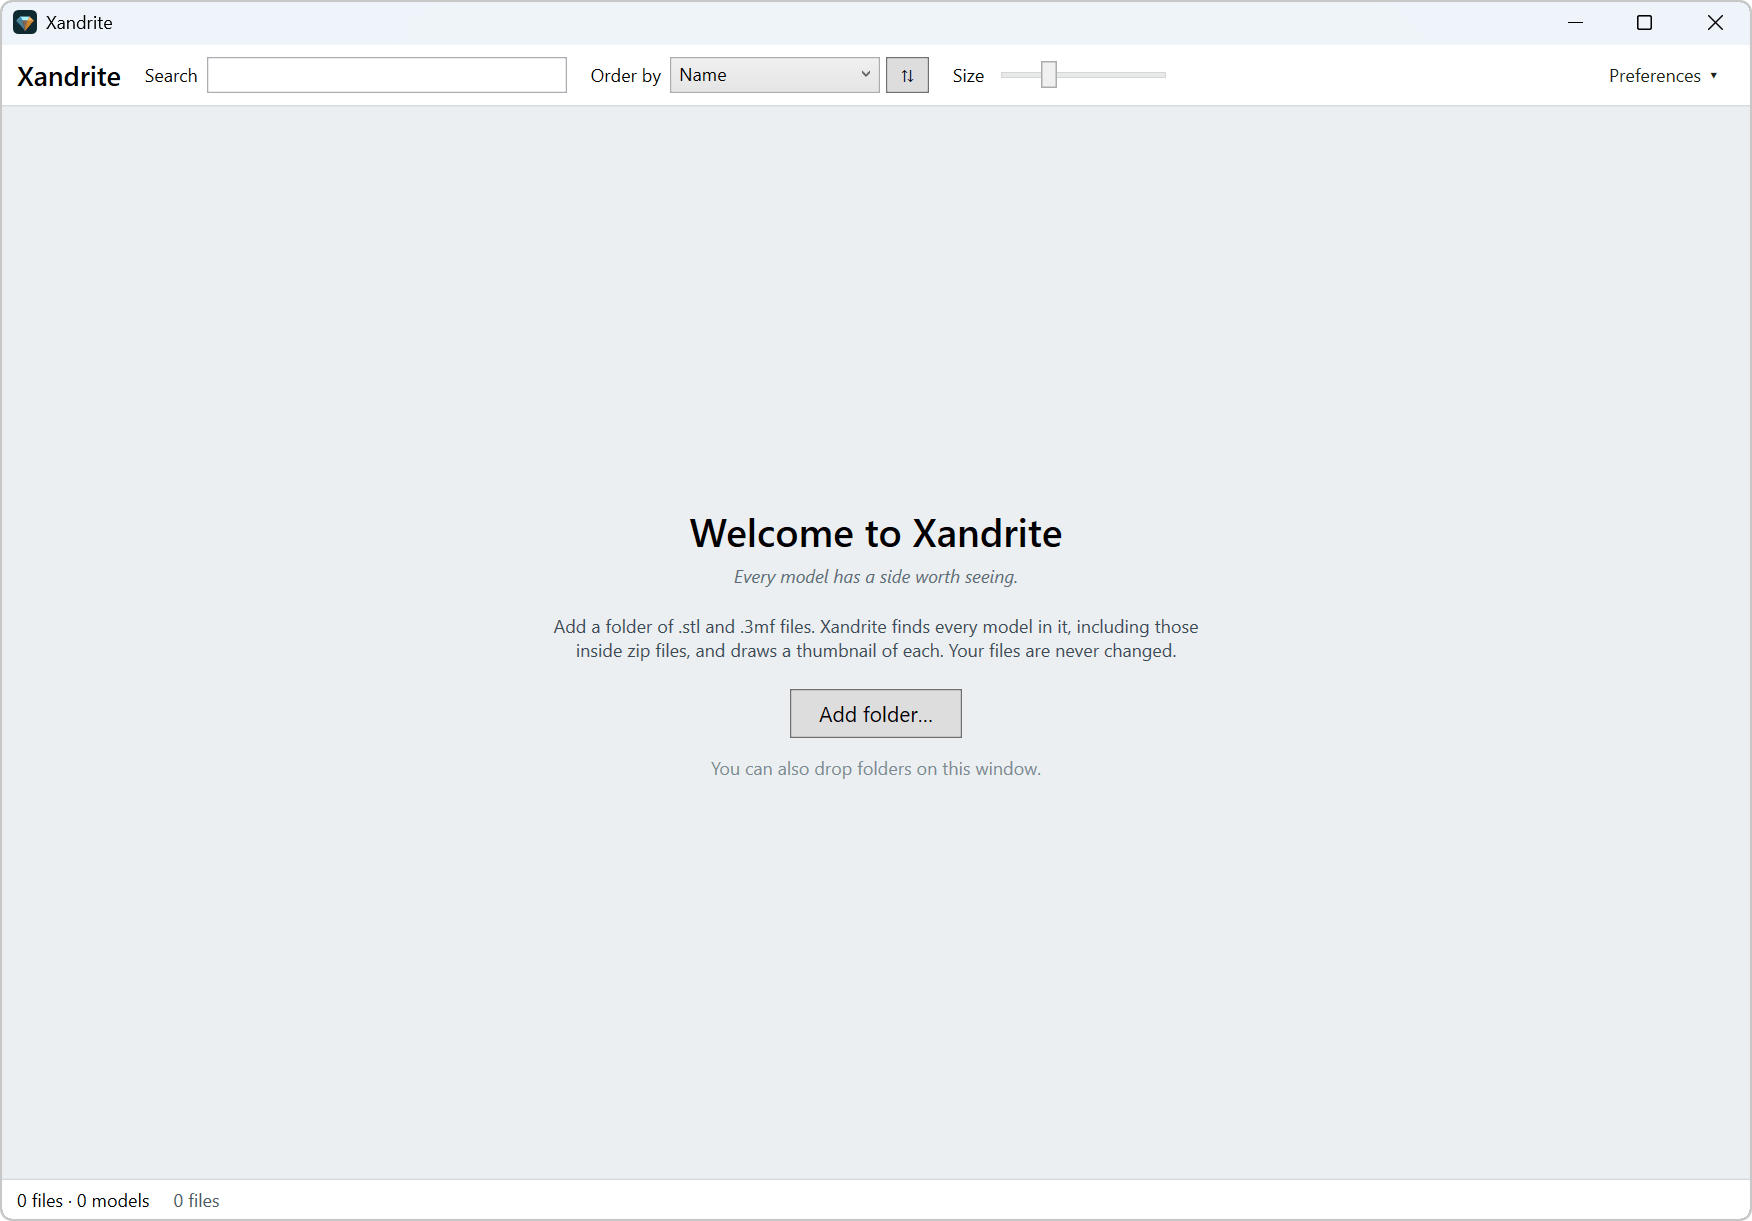
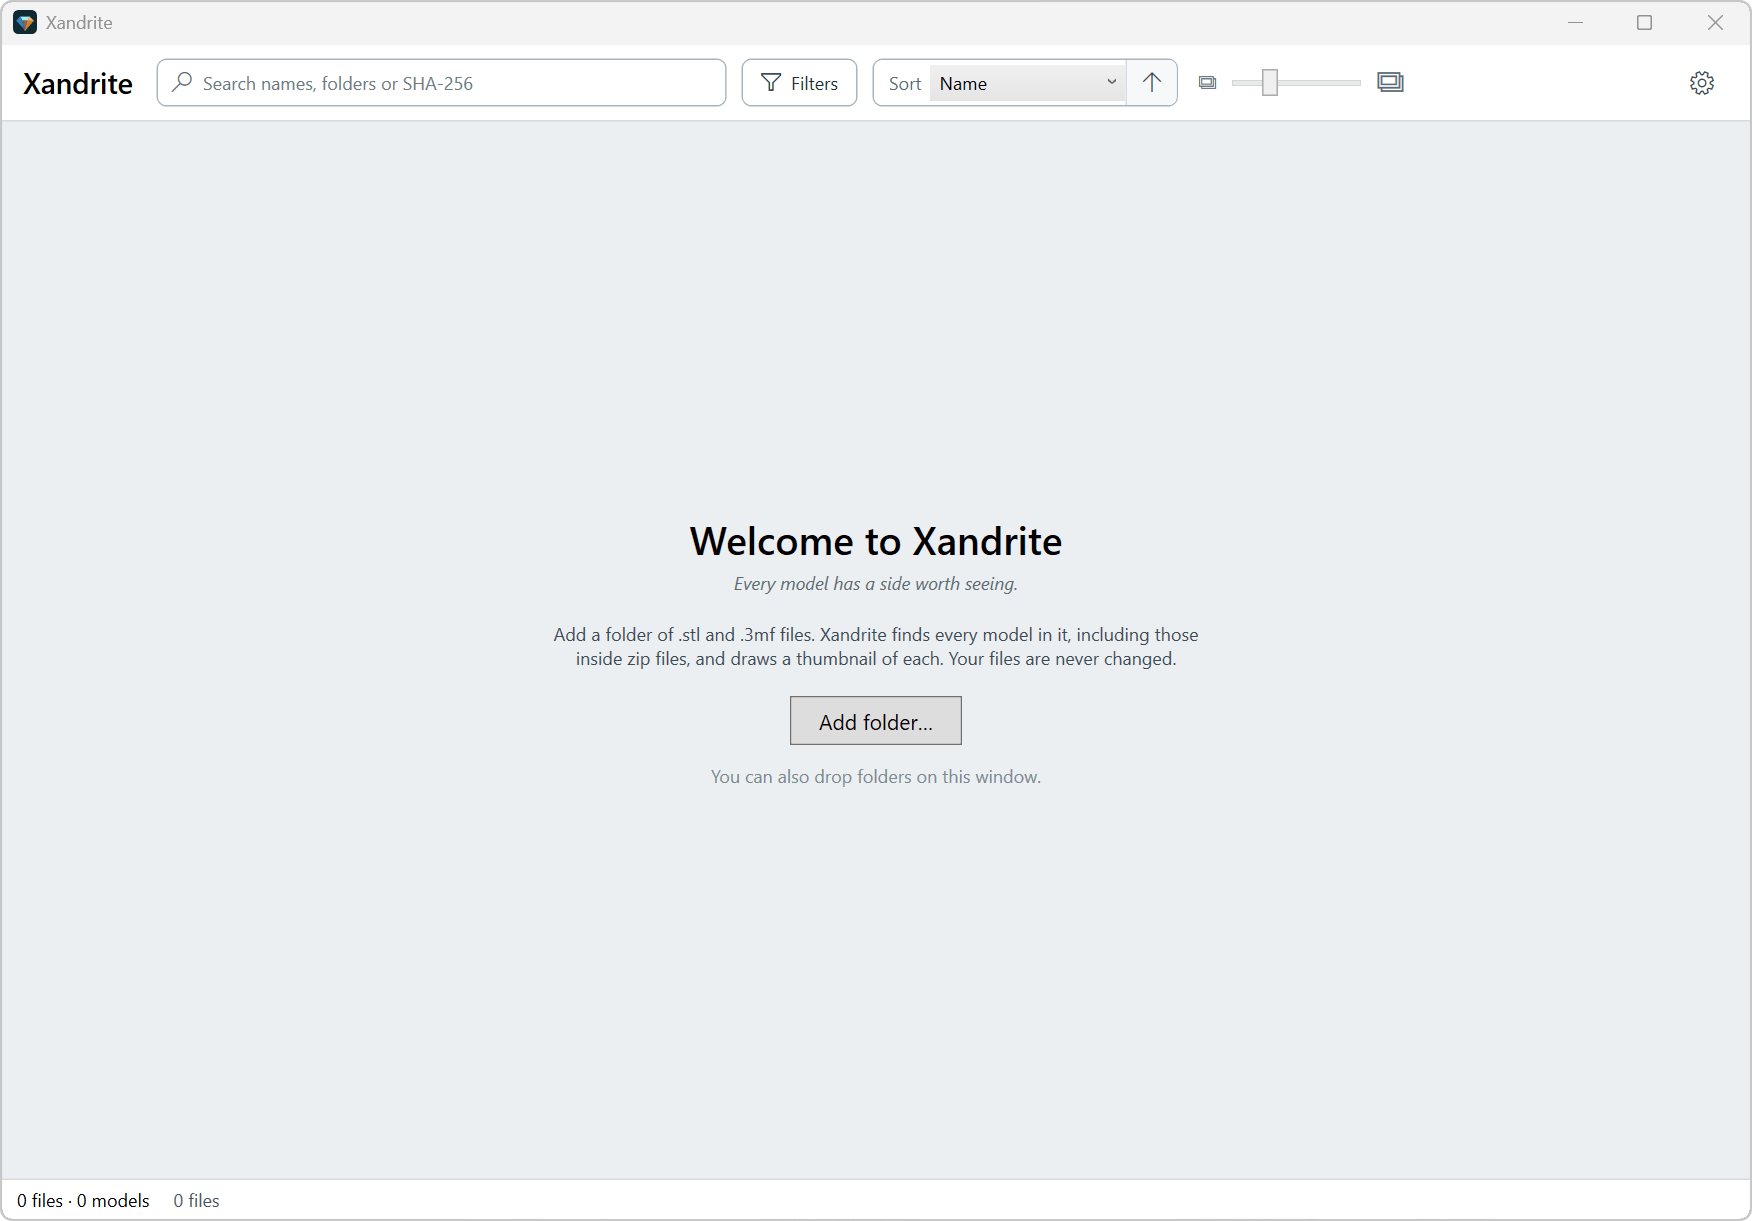
Update the manual's screenshots for the new toolbar; keep units' case in size chips
- New screenshots: the welcome screen and library window with the new
  toolbar, the Filters panel with chips, the selection bar with its Rate
  menu, the right-click menu, and the Preferences menu with Thumbnail speed.
  Each cropped to the window (menus that stick out kept), with a clean
  border and transparent rounded corners. Placed in their manual sections.
- The size chip read "Size 10 – 50 mb": only the first letter is lowered now.

Claude-Session: https://claude.ai/code/session_01KpnC1MGNPkRT1CSUnVGke8

diff --git a/Xandrite.NET/src/Xandrite.Presentation/LibraryViewModel.cs b/Xandrite.NET/src/Xandrite.Presentation/LibraryViewModel.cs
@@ -312,7 +312,7 @@ public sealed class LibraryViewModel : ObservableObject, IAsyncDisposable
                 chips.Add(Chip(_viewFilter.Value == Library.ViewFilter.Custom ? "Custom views" : "Default views", "view",
                     () => ViewFilter = FilterOptions.Views[0]));
             if (_sizeFilter.Min is not null || _sizeFilter.Max is not null)
-                chips.Add(Chip("Size " + _sizeFilter.Label.ToLowerInvariant(), "size", () => SizeFilter = FilterOptions.Sizes[0]));
+                chips.Add(Chip("Size " + LowerFirst(_sizeFilter.Label), "size", () => SizeFilter = FilterOptions.Sizes[0]));
             if (_showMissing)
                 chips.Add(Chip("Including missing files", "missing files", () => ShowMissing = false));
             return chips;
@@ -320,6 +320,9 @@ public sealed class LibraryViewModel : ObservableObject, IAsyncDisposable
             static FilterChip Chip(string label, string what, Action remove) => new(label, "Remove the " + what + " filter: " + label, new RelayCommand(remove));
         }
     }
+
+    /// <summary>"Under 100 KB" becomes "under 100 KB": only the first letter, so units keep their case.</summary>
+    private static string LowerFirst(string text) => text.Length == 0 ? text : char.ToLowerInvariant(text[0]) + text[1..];
 
     /// <summary>"Modified in the last 7 days", "Added more than a year ago"...</summary>
     internal static string DateChipLabel(AgeBasisOption basis, AgeFilterOption age)

diff --git a/Xandrite.NET/tests/Xandrite.Presentation.Tests/LibraryViewModelTests.cs b/Xandrite.NET/tests/Xandrite.Presentation.Tests/LibraryViewModelTests.cs
@@ -228,6 +228,12 @@ public class LibraryViewModelTests
         Assert.Equal("1 file match", f.Vm.MatchText);
         Assert.StartsWith("Remove the rating filter", f.Vm.ActiveFilters[0].RemoveLabel);
 
+        f.Vm.SizeFilter = FilterOptions.Sizes.Single(z => z.Label == "10 – 50 MB");
+        Assert.Contains("Size 10 – 50 MB", f.Vm.ActiveFilters.Select(c => c.Label));   // units keep their case
+        f.Vm.SizeFilter = FilterOptions.Sizes.Single(z => z.Label == "Under 100 KB");
+        Assert.Contains("Size under 100 KB", f.Vm.ActiveFilters.Select(c => c.Label));
+        f.Vm.SizeFilter = FilterOptions.Sizes[0];
+
         f.Vm.ActiveFilters[0].Remove.Execute(null);                 // the rating chip's ×
         Assert.Equal(RatingFilter.Any, f.Vm.RatingFilter.Value);
         Assert.Equal(new[] { "Added in the last 30 days", "Including missing files" }, f.Vm.ActiveFilters.Select(c => c.Label));

diff --git a/Xandrite.NET/docs/images/README.md b/Xandrite.NET/docs/images/README.md
@@ -5,24 +5,25 @@
 | File | Shows | |
 |---|---|---|
 | `01-welcome.png` | The welcome screen (empty library) | ✓ |
-| `02-library.png` | The library window with thumbnails, ratings and a *custom view* badge | ✓ (shows the old toolbar: retake) |
+| `02-library.png` | The library window with thumbnails, ratings and a *custom view* badge | ✓ |
 | `03-manage-folders.png` | Preferences (the gear) → Manage folders… | ✓ |
 | `04-status-bar.png` | The status bar while thumbnails are drawn (cropped) | ✓ |
 | `08-viewer.png` | The viewer | ✓ |
 | `09-viewer-advanced.png` | The viewer's side panel with Advanced open (cropped) | ✓ |
 | `11-about.png` | About Xandrite | ✓ |
-| `06-context-menu.png` | A tile's right-click menu, open | still to take |
-| `12-filters.png` | The Filters panel open, with a filter or two on, so the chips show under the toolbar | still to take |
-| `13-selection-bar.png` | A few models selected, with the selection bar under the toolbar | still to take |
+| `06-context-menu.png` | A tile's right-click menu, open | ✓ |
+| `12-filters.png` | The Filters panel open, with a filter or two on, so the chips show under the toolbar | ✓ (its size chip says "mb": fixed since, retake when convenient) |
+| `13-selection-bar.png` | A few models selected, with the selection bar under the toolbar | ✓ |
 | `07-find-copies.png` | The grid after *Find other copies of this model*: the same model in two places | still to take |
-| `10-preferences.png` | The Preferences menu (the gear) open, with the *Thumbnail speed* submenu showing | still to take |
+| `10-preferences.png` | The Preferences menu (the gear) open, with the *Thumbnail speed* submenu showing | ✓ |
 
 **Capturing an open menu:** a menu closes when the capture tool takes the focus, so use a delay. In the Snipping
 Tool, set the timer (the clock icon) to 5 seconds and click **New**. Then open the menu within those 5 seconds and wait:
 the screen freezes with the menu still open, and you can select the area.
 
-**Find other copies:** any model counted under "with copies" in the status bar will do. The sample models
-include one (`spur-gear-24t.stl`, copied into `Mechanical\Spares`).
+**Find other copies:** the sample models include a copy (`spur-gear-24t.stl`, also in `Mechanical\Spares`), so adding
+`Sample Models` as a second folder gives one to show. In your own library, sorting by name and looking for a name
+that repeats is another way.
 
 When adding a missing image, put its line back in `getting-started.md`. Section 8 (right-click actions) is the place for
 06 and 07, and section 10 (Preferences) for 10.

diff --git a/Xandrite.NET/docs/getting-started.md b/Xandrite.NET/docs/getting-started.md
@@ -197,6 +197,8 @@ While any filters are on, the Filters button turns blue and shows how many, and 
 toolbar ("★★★ and up", "Modified in the last 30 days"), with how many files match. Click a chip to turn that filter
 off, or **Clear all** to turn them all off. With no filters on, the chips go away and the grid gets the space.
 
+![The Filters panel open, with two filters on and their chips under the toolbar](images/12-filters.png)
+
 ### Tile size
 
 The slider in the toolbar, between a small and a large picture, makes the thumbnails bigger or smaller.
@@ -224,6 +226,8 @@ the archive it's in, and why its thumbnail failed, if it did.
 While models are selected, a blue **selection bar** appears under the toolbar. It shows how many are selected and
 offers **Download…**, **Rate** and **Copy paths** for all of them, plus **Select all** and **Clear selection**.
 
+![Three models selected, with the selection bar's Rate menu open](images/13-selection-bar.png)
+
 ### Rating
 
 Give models one to five stars, to find your favourites later (sort or filter by **Rating**):
@@ -237,6 +241,8 @@ Give models one to five stars, to find your favourites later (sort or filter by 
 ## 8. Right-click actions
 
 Right-click a tile, or a selection of tiles, for these actions:
+
+![The right-click menu](images/06-context-menu.png)
 
 - **Open:** opens the model in the viewer. Double-clicking or pressing **Enter** does the same.
 - **Show in folder:** opens File Explorer with the file selected. For a model inside an archive, it selects the archive.
@@ -302,6 +308,8 @@ you left it.
 ## 10. Preferences
 
 The **Preferences** menu, under the gear at the top right of the library window:
+
+![The Preferences menu, with Thumbnail speed open](images/10-preferences.png)
 
 | Item | What it does |
 |---|---|
